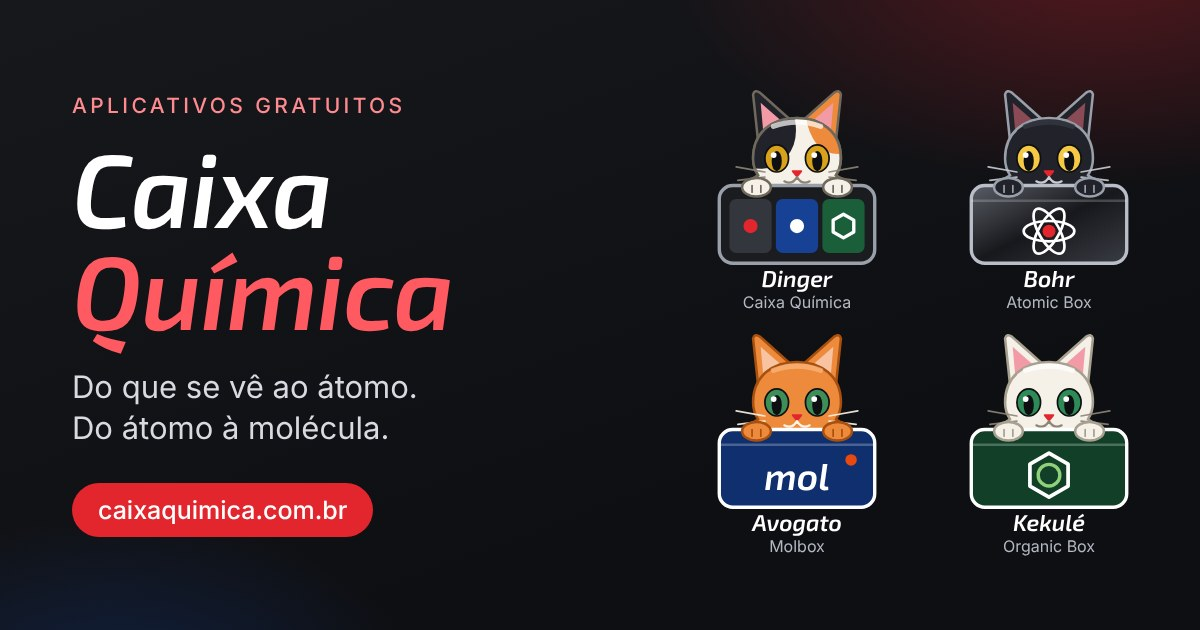
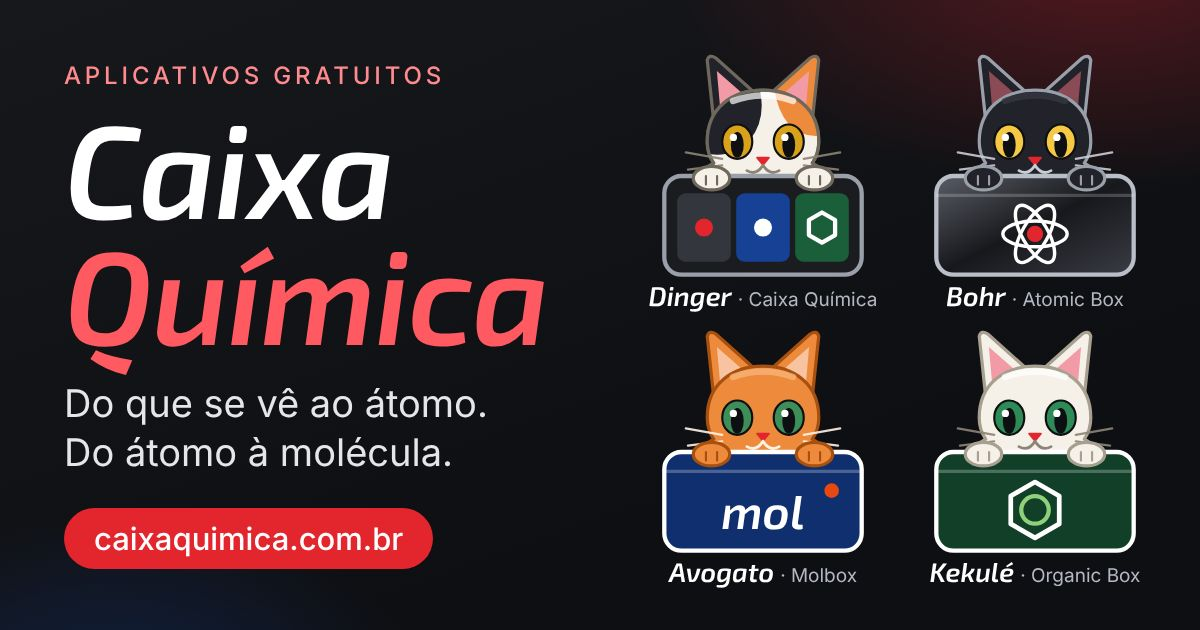
Capa: nome, lema e gatos maiores, aproveitando todo o espaço
Claude-Session: https://claude.ai/code/session_01RHrJFEXf9qig9VtNSy4N7B

diff --git a/ferramentas/capa.html b/ferramentas/capa.html
@@ -13,23 +13,23 @@
   html, body { margin: 0; }
   #capa {
     width: 1200px; height: 630px; box-sizing: border-box; position: relative; overflow: hidden;
-    display: grid; grid-template-columns: 610px 1fr; align-items: center; padding: 0 56px 0 72px;
+    display: grid; grid-template-columns: 560px 1fr; align-items: center; padding: 0 36px 0 64px;
     color: #FFFFFF; font-family: Inter, Arial, sans-serif;
     background:
       radial-gradient(700px 360px at 92% -6%, rgba(200, 32, 42, 0.35), transparent 62%),
       radial-gradient(500px 300px at 10% 110%, rgba(22, 65, 148, 0.35), transparent 60%),
       linear-gradient(160deg, #17181C, #0E0F12 70%);
   }
-  .sobre { font-size: 21px; letter-spacing: 0.16em; color: #FF8A8F; margin: 0 0 18px; font-weight: 500; }
-  h1 { font-family: "Exo 2", Inter, sans-serif; font-style: italic; font-weight: 600; font-size: 104px; line-height: 0.98; margin: 0 0 26px; letter-spacing: -0.01em; }
+  .sobre { font-size: 24px; letter-spacing: 0.16em; color: #FF8A8F; margin: 0 0 14px; font-weight: 500; }
+  h1 { font-family: "Exo 2", Inter, sans-serif; font-style: italic; font-weight: 600; font-size: 132px; line-height: 0.95; margin: 0 0 24px; letter-spacing: -0.01em; }
   h1 span { color: #FF5A61; display: block; }
-  .lema { font-size: 31px; line-height: 1.35; color: #D7DAE0; margin: 0 0 34px; }
-  .endereco { display: inline-block; font-size: 25px; font-weight: 500; padding: 12px 26px; border-radius: 999px; background: #E3262E; }
-  .gatos { display: grid; grid-template-columns: repeat(2, 230px); gap: 6px 22px; justify-content: center; }
+  .lema { font-size: 38px; line-height: 1.3; color: #E4E6EA; margin: 0 0 30px; }
+  .endereco { display: inline-block; font-size: 31px; font-weight: 500; padding: 12px 30px; border-radius: 999px; background: #E3262E; }
+  .gatos { display: grid; grid-template-columns: repeat(2, 258px); gap: 8px 14px; justify-content: end; }
   .gato { text-align: center; }
-  .gato svg { width: 230px; height: 196px; display: block; overflow: visible; }
-  .gato p { margin: -6px 0 0; font-family: "Exo 2", Inter, sans-serif; font-style: italic; font-weight: 600; font-size: 23px; }
-  .gato small { display: block; font-family: Inter, sans-serif; font-style: normal; font-weight: 400; font-size: 16px; color: #B3B8C2; }
+  .gato svg { width: 258px; height: 236px; display: block; overflow: visible; }
+  .gato p { margin: 2px 0 0; font-family: "Exo 2", Inter, sans-serif; font-style: italic; font-weight: 600; font-size: 27px; line-height: 1.1; }
+  .gato small { font-family: Inter, sans-serif; font-style: normal; font-weight: 400; font-size: 19px; color: #B3B8C2; margin-left: 6px; }
 </style>
 </head>
 <body>
@@ -50,11 +50,11 @@
     const div = document.createElement("div");
     div.className = "gato";
     const svg = desenhoDoGato(id, "caixa", "");
-    svg.setAttribute("viewBox", "0 4 120 116");
+    svg.setAttribute("viewBox", "6 8 108 110");
     const p = document.createElement("p");
     p.textContent = nome;
     const small = document.createElement("small");
-    small.textContent = caixa;
+    small.textContent = "· " + caixa;
     p.append(small);
     div.append(svg, p);
     lugar.append(div);

diff --git a/index.html b/index.html
@@ -9,7 +9,7 @@
 <meta property="og:url" content="https://caixaquimica.com.br/">
 <meta property="og:site_name" content="Caixa Química">
 <meta property="og:locale" content="pt_BR">
-<meta property="og:image" content="https://caixaquimica.com.br/marca/capa.jpg">
+<meta property="og:image" content="https://caixaquimica.com.br/marca/capa.jpg?v=2">
 <meta property="og:image:type" content="image/jpeg">
 <meta property="og:image:width" content="1200">
 <meta property="og:image:height" content="630">
